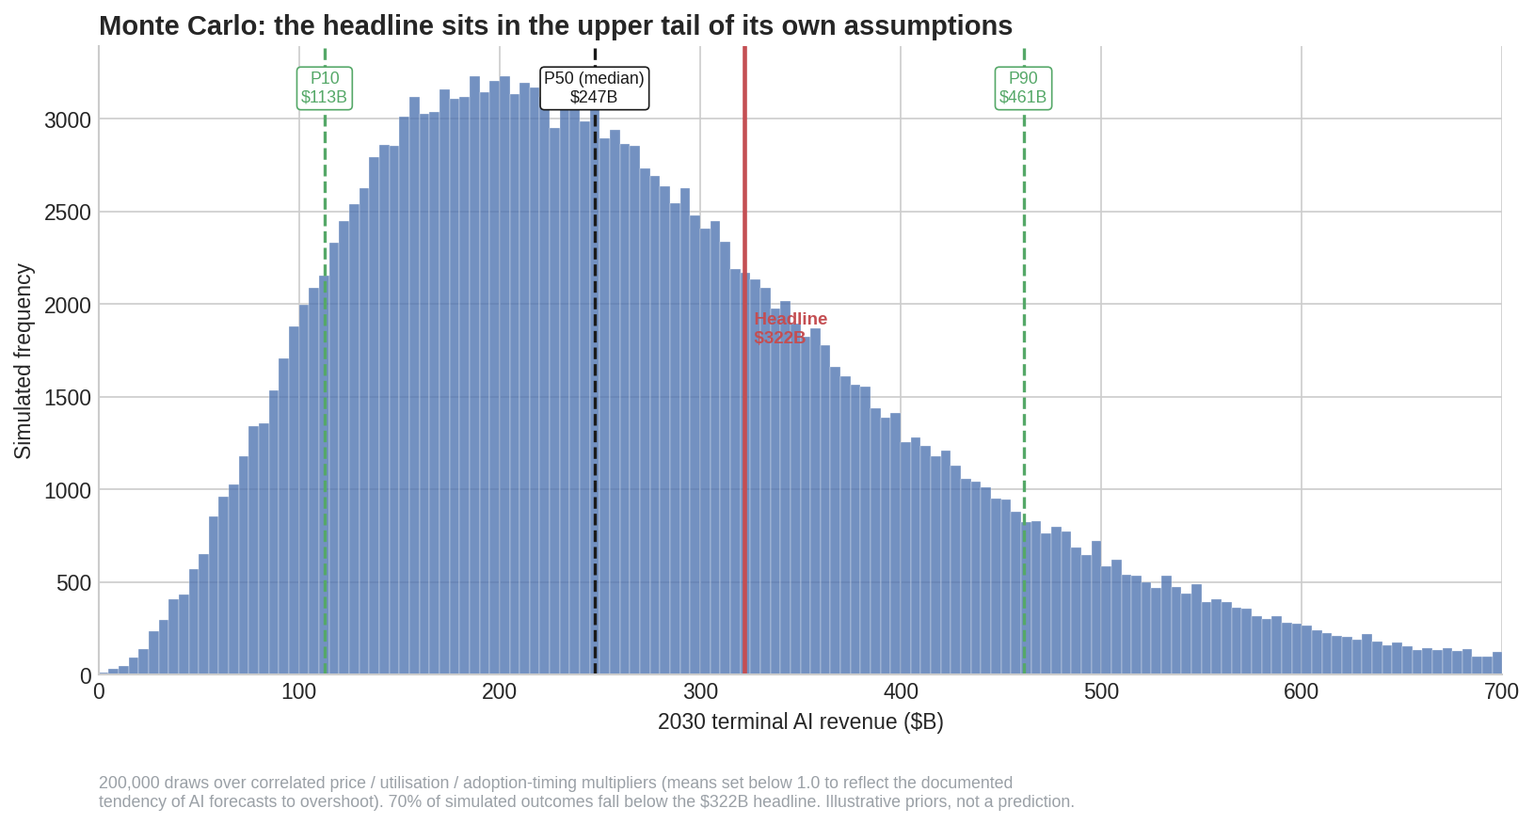
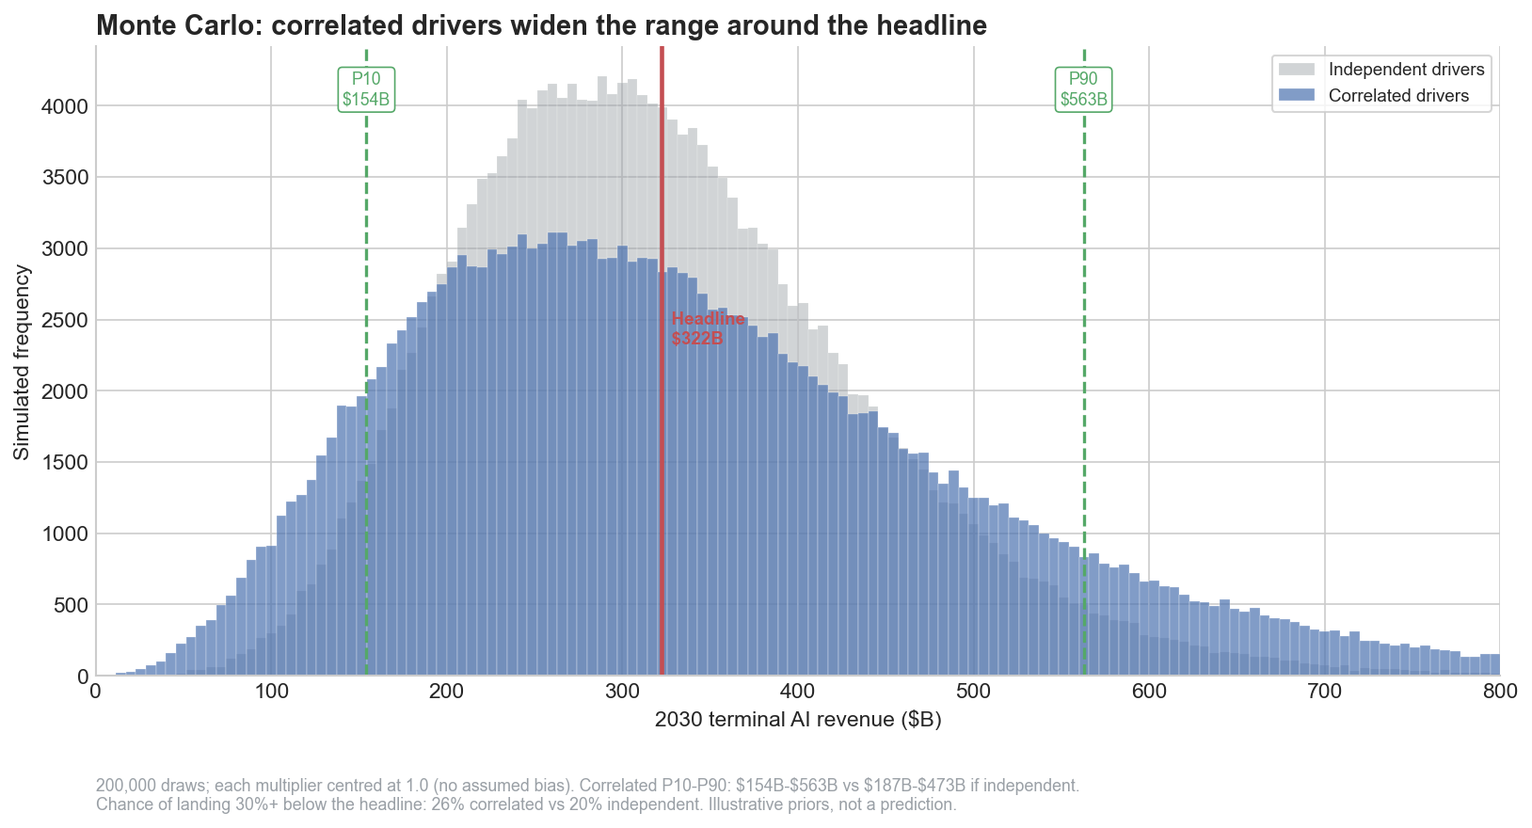
Fix high-severity claims from Nov 2026 audit
- Replace links to 10 nonexistent repos and 1 private repo with accurate
  status (not yet published / private / existing blog-artifacts folder).
- AI forecast post: Monte Carlo now centred at 1.0 (old 70%-below result
  was built into the prior); show Tractica's Dec 2017 revision; fix the
  2027-2030 nine-fold wording. Correction note added.
- DS career audit: drop the global/US mixed investment ratio; describe the
  2023 GenAI rate as an instrument floor, not absence. Correction note added.

diff --git a/_posts/2026-06-29-data-science-career-audit.md b/_posts/2026-06-29-data-science-career-audit.md
@@ -6,7 +6,7 @@ date: 2026-06-29
 author: "Chinmay Arora"
 
 description: "A source-backed descriptive audit of data science as a labor-market category - real BLS/HAI/McKinsey/WEF figures plus 700k+ real job postings - separating the synthetic job title from the durable work."
-summary: "Data science boomed as a job title because companies had too much data and too little clarity. This audit treats the title as a dataset: it uses public labor-market figures (BLS, Stanford HAI, McKinsey, WEF) plus 728k real 2023 job postings and a 2026 snapshot to show a contradiction - the occupation is still projected to grow ~11x faster than all occupations, while its procedural workflow (SQL, cleaning, dashboards, standard models) is exactly what AI is compressing. GenAI/LLM language went from ~0.1% of 2023 data postings to ~27% of a 2026 snapshot. The argument is precise: the title is synthetic, but the value - problem framing, domain judgment, validation, decision design - is real. Descriptive only; no causal claims."
+summary: "Data science boomed as a job title because companies had too much data and too little clarity. This audit treats the title as a dataset: it uses public labor-market figures (BLS, Stanford HAI, McKinsey, WEF) plus 728k real 2023 job postings and a 2026 snapshot to show a contradiction - the occupation is still projected to grow ~11x faster than all occupations, while its procedural workflow (SQL, cleaning, dashboards, standard models) is exactly what AI is compressing. GenAI/LLM language appears in ~27% of a 2026 snapshot of data postings and was already rising within 2023. The argument is precise: the title is synthetic, but the value - problem framing, domain judgment, validation, decision design - is real. Descriptive only; no causal claims."
 
 categories: [Data-Science, Labor-Market, Applied-Research]
 tags: [Data-Science, Labor-Market, Job-Postings, NLP, GenAI, AI-and-Work, Career, Descriptive-Audit, BLS]
@@ -21,19 +21,21 @@ featured: false
 draft: false
 schema_type: "Article"
 keywords: "data science career, data science labor market, is data science dead, BLS data scientist, AI job automation, GenAI job postings, data science skills, job posting NLP, descriptive audit"
-last_modified_at: 2026-06-29
+last_modified_at: 2026-11-05
 content_type: "research_study"
 content_label: "Research Study"
 search_phrase: "data science labor market audit"
 positioning_note: "Descriptive study using public labor-market sources, 728k 2023 job postings, and a separate 2026 snapshot; cross-source comparisons are directional and not causal."
 ---
 
+> **Correction, November 2026.** An audit found two errors, now fixed. The receipts table reported a "31.1% GenAI share of US private AI investment", which divided *global* GenAI investment by *US* AI investment; it now reports the global GenAI figure on its own. And the post presented the 2023 GenAI rate (~0.1%) as evidence that GenAI language was absent; the 2023 skill vocabulary cannot detect that language well enough to support that, so the 2023 level is now described as an instrument floor.
+
 ## Key takeaways
 
 - "Data scientist" is a synthetic labor-market title - a bundle of statistics, programming, dashboards, ML, and business translation - not a discovered discipline. The work predates the title.
 - The occupation is still growing: BLS projects 34% growth for data scientists, 2024–2034 (~11x all occupations). Data science is not "dead."
 - But the bundle is being unbundled. Across 728k real 2023 postings, "Data Analyst," "Data Engineer," and "Data Scientist" are near-equal in volume and ask for completely different stacks.
-- GenAI/LLM language went from ~0.1% of 2023 data postings to ~27% of a 2026 snapshot (directional, cross-source). The procedural layer is being automated.
+- GenAI/LLM language was already rising within 2023 (about 1.7x from the first half to the second, on one instrument) and appears in ~27% of a 2026 snapshot of data postings. The 2023 and 2026 figures come from different instruments, so they show direction, not a measured jump. The procedural layer is being automated.
 - The pressure is uneven. External payroll research (Stanford, 2025) shows early-career workers (22–25) in the most AI-exposed jobs down ~13% in relative employment while senior peers held steady. The entry rung is the most exposed.
 - The durable value moves up: problem framing, domain judgment, causal reasoning, validation, decision design. The title was the bundle; the value was never the title.
 - This is a descriptive, source-backed audit - no causal claims, no fitted regression.
@@ -68,7 +70,7 @@ Two layers, both reproducible from the [companion repo](https://github.com/Chinm
 | Growth vs. all occupations (3.1%) | ~10.97x |
 | Median pay, 2024 (BLS) | $112,590 |
 | Org AI adoption, 2023 → 2024 (Stanford HAI) | 55% → 78% |
-| GenAI share of US private AI investment (HAI) | 31.1% |
+| Global private investment in GenAI, 2024 (HAI) | $33.9B |
 | Orgs reviewing *all* GenAI output before use (McKinsey) | 27% |
 | Employers expecting AI to transform their business by 2030 (WEF) | 86% |
 
@@ -132,7 +134,7 @@ Three near-equal "data" titles, each doing meaningfully different work. The shar
 | SQL | 47% | 47% | 62% | 25% |
 | R | 15% | 35% | 7% | 11% |
 | Excel | 34% | 10% | 4% | 4% |
-| Tableau / Power BI / dashboards | 55% | 27% | 20% | 7% |
+| Excel / Tableau / Power BI / Looker / dashboards (composite) | 55% | 27% | 20% | 7% |
 | Spark | 3% | 15% | 30% | 19% |
 | AWS | 5% | 16% | 35% | 27% |
 | Airflow | 1% | 3% | 15% | 8% |
@@ -211,11 +213,11 @@ The central point: AI does not kill data science. It kills the parts that were a
 
 Here is the cleanest real finding in the whole audit.
 
-In 2023, across 728k data-role postings, GenAI / LLM language - "generative AI," "LLM," "GPT," "RAG," "LangChain," "prompt engineering," "AI agents," "vector database" - appears in about **0.1%** of postings. It is essentially absent. But even inside 2023 it is moving: the monthly mention rate roughly doubles from **0.10% in the first half** to **0.17% in the second half** of the year. Small, but the slope is up.
+In 2023, across 728k data-role postings, GenAI / LLM language - "generative AI," "LLM," "GPT," "RAG," "LangChain," "prompt engineering," "AI agents," "vector database" - appears in about **0.1%** of postings. That level is not evidence that GenAI was absent. The 2023 dataset records skills from a controlled vocabulary that also returns "nlp" at 0% for every role, so it largely cannot express this language at all; the 0.1% is a floor set by the instrument. What the same instrument *can* show is movement: the monthly mention rate rises about 1.7x, from **0.10% in the first half** to **0.17% in the second half** of the year. Small, but the slope is up.
 
 By the ~June 2026 snapshot, GenAI / LLM language appears in roughly **27%** of data-role postings.
 
-**Read that carefully, because the honest version is less explosive than the headline.** The 2023 number comes from a controlled skill vocabulary; the 2026 number comes from free-text descriptions in a *different* dataset. The two base rates are not directly comparable, so the jump is **directional, not a precise 270x.** What I'll stand behind: GenAI language was a rounding error in data postings two years ago, was already accelerating within 2023, and is now a routine line item. The direction is not in doubt. The exact multiplier is.
+**Read that carefully, because the honest version is less explosive than the headline.** The 2023 number comes from a controlled skill vocabulary; the 2026 number comes from free-text descriptions in a *different* dataset. The two base rates are not directly comparable, so there is **no honest multiplier here, not 270x and not any other.** What I'll stand behind: within 2023, on one consistent instrument, GenAI language was rising; and by 2026 it is a routine line item in roughly a quarter of data postings. The direction is not in doubt. The size of the change is unmeasured.
 
 This is the awkward part for the field. Data science was sold on automation, prediction, optimization, and clean presentation. Generative AI shows up and says "I do those too." A career built around automation cannot be morally surprised when automation reaches the career. That doesn't make every data scientist replaceable. It makes the **generic** version replaceable - and adds a new column to the job description for everyone else.
 
@@ -275,7 +277,7 @@ The title was always a market bundle. The value was never the title.
 
 - **Type of study:** descriptive, source-backed audit. No model is fit. No causal effect is estimated. The regression and DAG in Sections 4 and 11 are explicitly labeled as conceptual.
 - **Macro figures:** BLS Occupational Outlook Handbook (Data Scientists), BLS employment-projections overview, Stanford HAI AI Index 2025, McKinsey State of AI 2025, WEF Future of Jobs 2025.
-- **Job postings:** `lukebarousse/data_jobs` (≈785k postings, 2023, controlled skill vocabulary) and `NextGig-Rocks/global-job-postings-multi-ats` (≈113k global postings, ~June 2026, free text).
+- **Job postings:** `lukebarousse/data_jobs` (≈785k postings in the file, 728,481 after filtering to data-family titles, 2023, controlled skill vocabulary) and `NextGig-Rocks/global-job-postings-multi-ats` (≈113k global postings, ~June 2026, free text).
 - **Entry-level effect:** Stanford Digital Economy Lab, *Canaries in the Coal Mine? Six Facts about the Recent Employment Effects of Artificial Intelligence* (Brynjolfsson, Chandar, Chen, 2025). The job-posting layer here does *not* establish the entry-level effect; it's cited from that payroll study, and my own seniority check is reported as a null.
 - **The big caveat:** the 2023 → 2026 GenAI comparison crosses two sources with different extraction methods (controlled skill list vs. free-text descriptions) and very different sample sizes (728k vs. ~888 data roles). It is directional only. The statistically robust GenAI result is the *within-2023* monthly trend.
 

diff --git a/_posts/2026-06-12-ai-forecast-numbers.md b/_posts/2026-06-12-ai-forecast-numbers.md
@@ -24,20 +24,22 @@ draft: false
 
 schema_type: "Article"
 keywords: "AI revenue forecast, SpaceX valuation, DCF terminal value, AI bubble, circular financing, forecast accuracy, model risk"
-last_modified_at: 2026-06-12
+last_modified_at: 2026-11-05
 content_type: "research_study"
 content_label: "Research Study"
 search_phrase: "AI revenue forecast stress test"
 positioning_note: "Evidence audit using public filings, forecast arithmetic, historical comparisons, and explicit uncertainty; findings are time-bounded and not investment advice."
 ---
 
+> **Correction, November 2026.** An audit of this post found three problems, now fixed. The Monte Carlo had its multipliers centred below 1.0, so its "70% of outcomes fall below the headline" result was built into the assumptions; it is now centred at 1.0, and the headline sits near the median. The 2017 forecast comparison used the original $38.8B figure, which its publisher revised to $89.8B later that year; both are now shown. And the Goldman path's "nine-fold" jump runs from 2027, not 2028.
+>
 > **A note on timing**
 > Figures here are as of mid-June 2026, around the SPCX pre/early-listing window. These numbers - valuation, segment revenue, analyst fair values, financing arrangements - are days old and moving fast. Treat them as a snapshot, not a settled record; the argument is about how forecasts are built and checked, which outlasts any single day's figure.
 
 > **Key takeaways**
 > - A headline like "$322B by 2030" is not one estimate - it is a chain of stacked assumptions, each multiplying the uncertainty of the last.
 > - Roughly 60–80% of a high-growth valuation lives in terminal value, governed by a denominator where a 0.5% move swings value 10–20%.
-> - Past forecasts missed hard in *both* directions: they undershot AI capability by 6–8x, yet today's company-level revenue projections appear to overshoot monetization just as badly.
+> - Past forecasts missed hard in *both* directions: market forecasts undershot the AI market (by roughly 3–8x, depending on which vintage of the forecast you compare against) and expert panels undershot capability, yet today's company-level revenue projections may overshoot monetization.
 > - This is not a bubble verdict. It is an argument for instrumenting the hidden variables before treating a high-variance prediction as a planning number.
 
 It started with a number I couldn't place.
@@ -93,7 +95,7 @@ So when you see "$1.75 trillion," understand what it is mechanically: a near-ter
 
 The useful thing about the SpaceX figure is that, unlike most private-company projections, the S-1 gives us actuals to check it against.
 
-**The growth rate is extreme but precisely stated.** $3.2B → $322B is a 100.6x increase, a compound annual growth rate of about **151% per year sustained for five years**. Goldman's disclosed path is steeper in shape than that average implies: it rises **388% to $15.6B in 2026**, reaches **$34.5B in 2027**, then more than nine-folds between 2028 and 2030.
+**The growth rate is extreme but precisely stated.** $3.2B → $322B is a 100.6x increase, a compound annual growth rate of about **151% per year sustained for five years**. Goldman's disclosed path is steeper in shape than that average implies: it rises **388% to $15.6B in 2026**, reaches **$34.5B in 2027**, then rises more than nine-fold between 2027 and 2030. Goldman's 2028 and 2029 values are not published.
 
 ![Implied-CAGR waterfall showing the annual increments required for a 100x AI revenue build from $3.2B to $322B.](/assets/blog/forecast_cagr_waterfall.png)
 *A constant-CAGR decomposition shows what the 100x build mechanically requires: the largest dollar lift lands in the least testable out-year.*
@@ -119,10 +121,10 @@ Roughly two dollars lost per dollar of revenue. And the revenue base isn't even 
 correlated downside:  0.75 × 0.85 = 0.64  →  ~$205B
 ```
 
-![Monte Carlo simulation showing the $322B headline sitting in the upper tail of correlated 2030 AI revenue assumptions.](/assets/blog/forecast_monte_carlo.png)
-*Drivers move together, so the downside multiplies rather than subtracts. In this illustrative Monte Carlo, the headline sits above the median and about 70% of simulated outcomes fall below it.*
+![Monte Carlo simulation comparing correlated and independent 2030 AI revenue drivers, both centred on the $322B headline.](/assets/blog/forecast_monte_carlo.png)
+*Each multiplier is centred at 1.0, so the simulation assumes the forecast is unbiased. The headline sits near the median either way. What correlation changes is the range: the P10–P90 band widens from about $187–473B with independent drivers to about $154–563B with correlated ones, and the chance of landing 30% or more below the headline rises from about 20% to 26%. Illustrative priors, not a prediction.*
 
-If five independent drivers each have an 80% chance of hitting their assumed value, the joint probability all five land is `0.8^5 ≈ 0.33`. The base case is the *upper corner* of a distribution, not its center.
+A related trap: if the base case needs five independent drivers to each hit its assumed value, and each has an 80% chance of doing so, the joint probability that all five land is `0.8^5 ≈ 0.33`. A base case built from several individually likely assumptions can still be an unlikely joint outcome.
 
 **The independent check exists, and it's far below the ask.** This converts "I'm skeptical" into something verifiable: **Morningstar assigned SpaceX a fair value of $780 billion - under half the ~$1.75 trillion IPO valuation** - anchoring to Starlink and launch revenue and weighting the AI segment across scenarios, while calling xAI a "material threat of value destruction" with an "economic moat indeterminate." When the underwriter and an independent analyst differ by roughly **$1 trillion** on the same company, that gap *is* the uncertainty band the headline omits.
 
@@ -132,7 +134,7 @@ Here's where I expected to confirm the cynical story - "forecasters always overs
 
 Forecasts have missed hard in **both** directions.
 
-**They have wildly under-shot.** In 2017, a widely cited market report projected global AI revenue reaching **$38.8 billion by 2025**. Actual 2025 AI market estimates land around **$244B (Statista) to $298B (IDC)** - the 2017 forecast undershot reality by roughly **6 to 8x**. On capability it's starker still: in 2021, expert and superforecaster panels predicting ML benchmark performance underestimated progress so badly that the true result landed in the *far right tail* of their distributions - on the MATH benchmark, actual accuracy hit **50.3% against a 12.7% prediction**. The people whose job is calibrated forecasting weren't just wrong; they were wrong by margins their own confidence intervals had ruled out.
+**They have wildly under-shot.** In March 2017, Tractica projected global AI revenue reaching **$38.8 billion by 2025**, and revised that to **$89.8 billion** in December of the same year. Actual 2025 AI market estimates land around **$244B (Statista) to $298B (IDC)**, so the forecast undershot by roughly **6–8x** against the original figure and **about 3x** against the revision. The definitions also differ (Tractica counted AI software revenue; the 2025 totals are broader market estimates), which is the same TAM-definition problem as Layer 1, so treat the size of the miss as approximate. The direction is not in doubt. On capability it's starker still: in 2021, expert and superforecaster panels predicting ML benchmark performance underestimated progress so badly that the true result landed in the *far right tail* of their distributions - on the MATH benchmark, actual accuracy hit **50.3% against a 12.7% prediction**. The people whose job is calibrated forecasting weren't just wrong; they were wrong by margins their own confidence intervals had ruled out.
 
 **They have also wildly over-shot - at the company level, right now.** The same era's company-level revenue projections look very different from the market-level ones:
 
@@ -206,7 +208,7 @@ I'm genuinely curious where people who build or read these models would push bac
 
 ## Sources
 
-SpaceX S-1 / Financial Times reporting on the Goldman projection and xAI financials; Morningstar fair-value analysis; IDC, Statista, Gartner, and multiple research firms on AI market size; Damodaran and standard DCF references on terminal-value sensitivity; the MIT enterprise-AI pilot study; Bloomberg, Bernstein, and GMO reporting on circular financing; S&P Global, Bank of England, IMF, and WEF risk commentary; Jacob Steinhardt's benchmark-forecasting experiment. Figures as of mid-June 2026 and moving quickly.
+SpaceX S-1 / Financial Times reporting on the Goldman projection and xAI financials; Morningstar fair-value analysis; IDC, Statista, Gartner, and multiple research firms on AI market size; Tractica's [March 2017 forecast](https://www.globenewswire.com/de/news-release/2017/03/09/933837/0/en/Artificial-Intelligence-Market-Forecasts-2016-2025-Across-27-Industry-Sectors.html) and [December 2017 revision](https://www.businesswire.com/news/home/20171221005765/en/Artificial-Intelligence-Software-Market-Reach-89.8-Billion); Damodaran and standard DCF references on terminal-value sensitivity; the MIT enterprise-AI pilot study; Bloomberg, Bernstein, and GMO reporting on circular financing; S&P Global, Bank of England, IMF, and WEF risk commentary; Jacob Steinhardt's benchmark-forecasting experiment. Figures as of mid-June 2026 and moving quickly.
 
 *I'm a data scientist, not a financial advisor - this is analysis and exploration, not investment advice.*
 

diff --git a/_posts/2026-05-21-AI-Governance-and-Privacy.md b/_posts/2026-05-21-AI-Governance-and-Privacy.md
@@ -999,9 +999,8 @@ This article is part of a three-part series on governance-layer AI: how systems 
 
 - Portfolio / The Lab: https://app.chinmayarora.com
 - GitHub profile: https://github.com/ChinmayA301
-- Aegis project repository: https://github.com/ChinmayA301/aegis-ai-governance
-- AI contract review prototype: https://github.com/ChinmayA301/ai-contract-risk-review
-- Responsible AI audit templates: https://github.com/ChinmayA301/responsible-ai-audit-templates
+- Aegis conformance engine: private repository (not yet public); its published results are in [Aegis Technical Report 002](/blog/aegis-periodic-conformance-six-frontier-models/)
+- AI contract review prototype and responsible-AI audit templates: not yet published
 - Related applied direction: AI readiness assessment, vendor risk review, privacy review automation, public-sector AI pilot governance, model monitoring, and executive decision memos
 
 ---

diff --git a/_posts/2026-04-03-ai-media-localisation.md b/_posts/2026-04-03-ai-media-localisation.md
@@ -266,7 +266,7 @@ That is what AI localisation should aim for.
 
 ## 11) From Framework to Build: locstack v1
 
-The stack above is a design, not a claim of what exists. To pressure-test it, I built a working companion — [**locstack**](https://github.com/ChinmayA301/Media-localisation-ai), a modular Hindi→English (multi-pair by design) localisation pipeline, and used it to check which parts of section 4's layered pipeline hold up in practice.
+The stack above is a design, not a claim of what exists. To pressure-test it, I built a working companion — **locstack** (private repository, available on request), a modular Hindi→English (multi-pair by design) localisation pipeline, and used it to check which parts of section 4's layered pipeline hold up in practice.
 
 **What's implemented**, mapped onto the framework above:
 

diff --git a/_posts/2026-05-19-media-and-power-study.md b/_posts/2026-05-19-media-and-power-study.md
@@ -475,6 +475,6 @@ It is also about controlling imagination.
 
 - GitHub profile: https://github.com/ChinmayA301
 - Portfolio / The Lab: https://app.chinmayarora.com
-- Project repository: https://github.com/ChinmayA301/us-media-global-power-study
+- Companion artifact (synthetic-data method demo, not a real-data study): https://github.com/ChinmayA301/blog-artifacts/tree/main/media-influence-causality
 - Possible dataset direction: media exports, box office share, music chart presence, platform ownership, trade centrality, GDP share, military presence, international student flows
 - Possible implementation stack: Python, Pandas, GeoPandas, NetworkX, World Bank API, OECD API, visualization dashboard

diff --git a/_posts/2026-05-20-sim-engineering-ai.md b/_posts/2026-05-20-sim-engineering-ai.md
@@ -533,7 +533,7 @@ Better judgment under constraint.
 
 - GitHub profile: https://github.com/ChinmayA301
 - Portfolio / The Lab: https://app.chinmayarora.com
-- Project repository: https://github.com/ChinmayA301/simulation-engineering-ai
+- Companion code: not yet published
 - Related applied direction: proxy-data simulation, public-sector AI pilots, synthetic service-request routing, trend diffusion simulation, logistics workflow optimization
 - Possible implementation stack: Python, FastAPI, SimPy, Mesa, Pandas, scikit-learn, SDV, Streamlit / React dashboard, Monte Carlo simulation, agent-based modeling
 

diff --git a/_posts/2026-05-19-AI-content-tracking.md b/_posts/2026-05-19-AI-content-tracking.md
@@ -574,6 +574,6 @@ Practical trust.
 
 - GitHub profile: https://github.com/ChinmayA301
 - Portfolio / The Lab: https://app.chinmayarora.com
-- Project repository: https://github.com/ChinmayA301/ai-content-provenance-layer
+- Companion code: not yet published
 - Possible MVP: browser extension or LMS plugin for document provenance, draft history, paste-event tracking, source validation, and AI-assistance disclosure
 - Possible implementation stack: Python, FastAPI, React, browser extension APIs, GitHub Actions, metadata parsers, C2PA tooling, document diffing

diff --git a/_posts/2026-05-20-HCI-for-AR.md b/_posts/2026-05-20-HCI-for-AR.md
@@ -480,6 +480,6 @@ Augmented reality for comprehension.
 
 - GitHub profile: https://github.com/ChinmayA301
 - Portfolio / The Lab: https://app.chinmayarora.com
-- Project repository: https://github.com/ChinmayA301/text-to-ar-interface-standard
+- Companion code: not yet published
 - Prototype direction: mobile-first AR overlay assistant for menus, games, and tutorials
 - Future implementation stack: React Native, ARKit / ARCore, Vision-Language Models, OCR, spatial UI components

diff --git a/_posts/2026-06-18-ai-human-imperfection.md b/_posts/2026-06-18-ai-human-imperfection.md
@@ -417,4 +417,4 @@ That is the actual product insight: not “detect AI,” but **detect what AI re
 
 - Related: `Aegis AI Governance and Responsible Adoption`  
 - Related: `Creative Testing and AI Benchmarking`  
-- GitHub project placeholder: `github.com/ChinmayA301/human-imperfection-signal-lab`
+- Companion artifact (synthetic-data evaluation pipeline): https://github.com/ChinmayA301/blog-artifacts/tree/main/ai-human-detector

diff --git a/_posts/2026-06-18-satiation-adjusted.md b/_posts/2026-06-18-satiation-adjusted.md
@@ -466,4 +466,4 @@ It does not tell people what to eat. It tells them what the label is hiding.
 
 - Related: `Public Health Data Science and Food Systems`  
 - Related: `Decision Intelligence for Everyday Choices`  
-- GitHub project placeholder: `github.com/ChinmayA301/satiation-adjusted-serving-system`
+- Companion code: not yet published

diff --git a/_posts/2026-06-18-cultural-impact-media.md b/_posts/2026-06-18-cultural-impact-media.md
@@ -443,4 +443,4 @@ This project is about measuring the leak.
 
 - Related: `The Success Directory: Decision Intelligence for Ambiguous Choices`  
 - Related: `Media Worlds and Experience Rooms`  
-- GitHub project placeholder: `github.com/ChinmayA301/cultural-diffusion-index`
+- Companion code: not yet published
